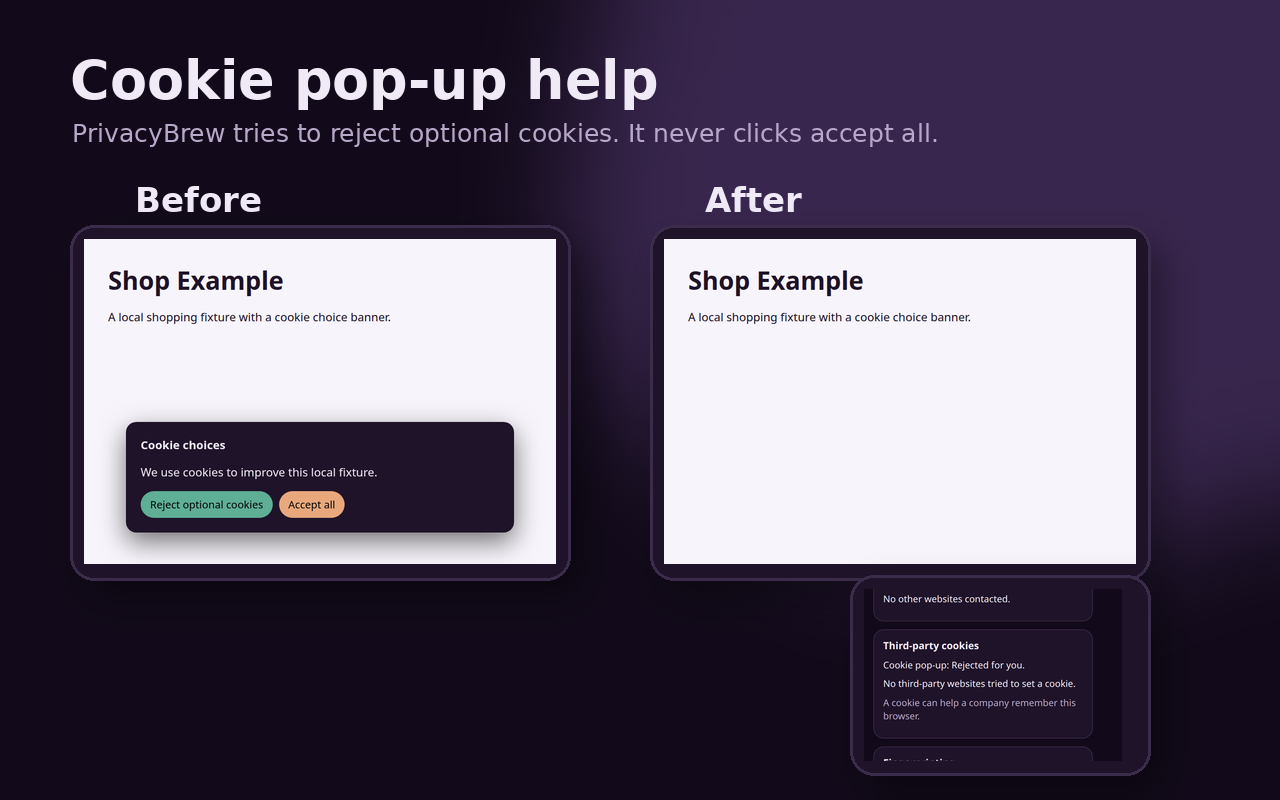
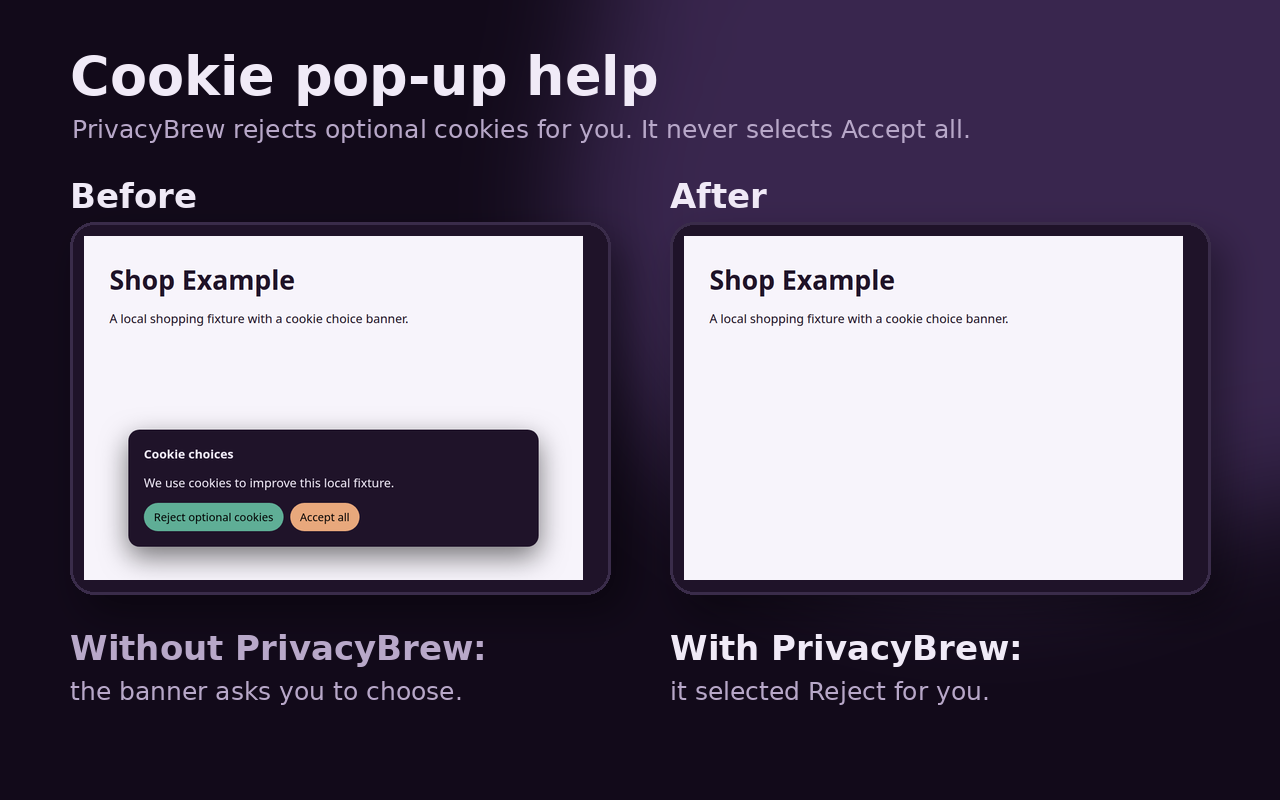
Store screenshots: real cookie handling in Before/After, clearer captions

diff --git a/tools/store_screenshots.py b/tools/store_screenshots.py
@@ -116,6 +116,12 @@ def popup(cdp, ext, sw, tab_id, scroll=None, details=False, crop_top=False):
         return img.crop((0, 0, img.width, min(img.height, 1225)))
     return img
 
+def popup_element(cdp, ext, tab_id, selector):
+    target=cdp.call('Target.createTarget', {'url': f'chrome-extension://{ext}/popup.html?tabId={tab_id}'})['targetId']; sess=attach(cdp,target); cdp.call('Page.enable', sessionId=sess); cdp.call('Emulation.setDeviceMetricsOverride', {'width':390,'height':900,'deviceScaleFactor':2,'mobile':False}, sess); wait(cdp,sess); time.sleep(.6)
+    box=cdp.call('Runtime.evaluate', {'expression': f"(()=>{{const r=document.querySelector('{selector}').getBoundingClientRect();return [r.x,r.y+scrollY,r.width,r.height]}})()", 'returnByValue':True}, sess)['result']['value']
+    data=cdp.call('Page.captureScreenshot', {'format':'png','captureBeyondViewport':True,'clip':{'x':box[0],'y':box[1],'width':box[2],'height':box[3],'scale':1}}, sess)['data']
+    tmp = ROOT/'artifacts'/'tmp-shot.png'; tmp.write_bytes(base64.b64decode(data)); return Image.open(tmp).convert('RGBA')
+
 def bg():
     im=Image.new('RGBA',(1280,800),BG); glow=Image.new('RGBA',(1280,800),(0,0,0,0)); d=ImageDraw.Draw(glow); d.ellipse((520,-220,1450,620), fill=(155,109,209,72)); return Image.alpha_composite(im, glow.filter(ImageFilter.GaussianBlur(70)))
 def draw_wrapped(d, xy, text, font, fill, width, linegap=8):
@@ -135,10 +141,15 @@ def frame(base,img,xy,size):
     d=ImageDraw.Draw(base); d.rounded_rectangle((x,y,x+w,y+h),24,fill=PANEL,outline=BORDER,width=3); img.thumbnail((w-28,h-28), Image.Resampling.LANCZOS); base.alpha_composite(img,(x+14,y+14))
 def slide(path,title,body,img):
     im=bg(); d=ImageDraw.Draw(im); draw_wrapped(d,(70,135),title,FONT_BIG,TEXT,620); draw_wrapped(d,(74,270),body,FONT,DIM,610); frame(im,img,(790,85),(390,630)); im.convert('RGB').save(path)
-def cookie_slide(path,before,after,popup_img):
-    popup_img = popup_img.crop((0, 0, popup_img.width, min(popup_img.height, 520)))
-    im=bg(); d=ImageDraw.Draw(im); draw_wrapped(d,(70,48),'Cookie pop-up help',FONT_BIG,TEXT,780); draw_wrapped(d,(72,118),'PrivacyBrew tries to reject optional cookies. It never clicks accept all.',FONT,DIM,900)
-    d.text((135,180),'Before',font=FONT_MED,fill=TEXT); d.text((705,180),'After',font=FONT_MED,fill=TEXT); frame(im,before,(70,225),(500,355)); frame(im,after,(650,225),(500,355)); frame(im,popup_img,(850,575),(300,200)); im.convert('RGB').save(path)
+def cookie_slide(path,before,after,card):
+    im=bg(); d=ImageDraw.Draw(im); draw_wrapped(d,(70,44),'Cookie pop-up help',FONT_BIG,TEXT,1100); draw_wrapped(d,(72,114),'PrivacyBrew rejects optional cookies for you. It never selects Accept all.',FONT,DIM,1140)
+    d.text((70,176),'Before',font=FONT_MED,fill=TEXT); d.text((670,176),'After',font=FONT_MED,fill=TEXT)
+    # page shots are 900x620; frame inner size keeps that ratio so no empty strip shows
+    frame(im,before,(70,222),(540,372)); frame(im,after,(670,222),(540,372))
+    d.text((70,628),'Without PrivacyBrew:',font=FONT_MED,fill=DIM); d.text((70,676),'the banner asks you to choose.',font=FONT,fill=DIM)
+    d.text((670,628),'With PrivacyBrew:',font=FONT_MED,fill=TEXT)
+    d.text((670,676),'it selected Reject for you.',font=FONT,fill=DIM)
+    im.convert('RGB').save(path)
 def local(path):
     im=bg(); d=ImageDraw.Draw(im); icon=Image.open(ROOT/'extension/icons/icon-128.png').convert('RGBA').resize((120,120)); im.alpha_composite(icon,(90,90)); d.text((240,112),'Local by design',font=FONT_BIG,fill=TEXT)
     y=270
@@ -157,8 +168,14 @@ def main():
         cdp.call('Runtime.evaluate', {'expression':'setCookiePopupHandling(false)', 'awaitPromise':True}, sw)
         before_s=open_page(cdp,f'http://shop.example:{PORT}/'); before=shot(cdp,before_s)
         cdp.call('Runtime.evaluate', {'expression':'setCookiePopupHandling(true)', 'awaitPromise':True}, sw)
-        after_s=open_page(cdp,f'http://shop.example:{PORT}/'); time.sleep(1); cdp.call('Runtime.evaluate', {'expression':"const b=document.querySelector('.banner'); if(b) b.style.display='none';"}, after_s); after=shot(cdp,after_s)
-        shop_tab=tab_id_for_url(cdp,sw,'http://shop.example'); create_state(cdp,sw,shop_tab,'shop.example','rejected'); cookie_popup=popup(cdp,ext,sw,shop_tab,scroll='#cookiesCard')
+        after_s=open_page(cdp,f'http://shop.example:{PORT}/'); time.sleep(4)
+        # The extension must handle the banner itself. Stop if it did not.
+        seen=cdp.call('Runtime.evaluate', {'expression':"JSON.stringify({rejected:!!window.__rejectClicked, accepted:!!window.__acceptClicked, visible:(()=>{const b=document.querySelector('.banner');return !!b && getComputedStyle(b).display!=='none' && b.offsetHeight>0})()})", 'returnByValue':True}, after_s)['result']['value']
+        print('after banner state:', seen)
+        st=json.loads(seen)
+        if st['accepted'] or st['visible']: raise SystemExit('Extension did not handle the fixture banner: '+seen)
+        after=shot(cdp,after_s)
+        shop_tab=tab_id_for_url(cdp,sw,'http://shop.example'); create_state(cdp,sw,shop_tab,'shop.example','rejected'); cookie_popup=popup_element(cdp,ext,shop_tab,'#cookiesCard')
         slide(OUT/'01-report-card.png','See the privacy story','A plain-language report card for each website.\nTrackers, ads, cookies, and fingerprinting in one place.',report)
         slide(OUT/'02-blocking-controls.png','Control each protection','Block trackers and ads by default.\nSend privacy requests to websites.',controls)
         cookie_slide(OUT/'03-cookie-popups.png',before,after,cookie_popup)
